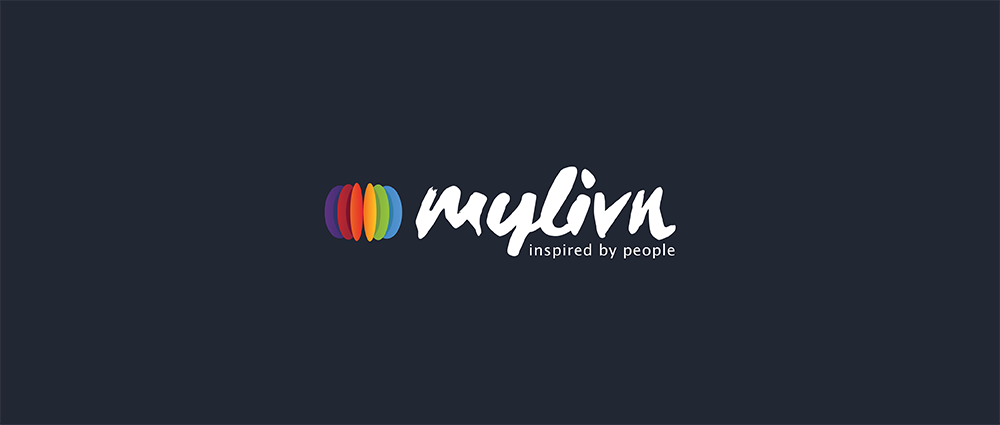
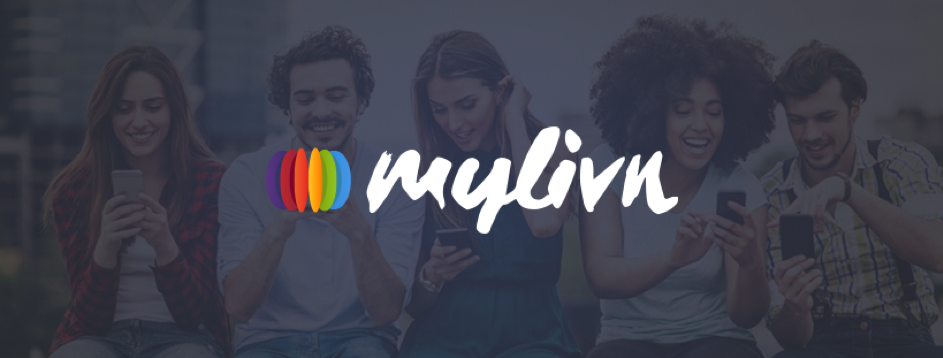
updated images and about company

diff --git a/README.md b/README.md
@@ -2,15 +2,17 @@
 ## Mylivn
 #### Inspired by People
 
-![](https://raw.githubusercontent.com/mylivn-gmbh/jobs/master/assets/cover1.png)
+![](cover1.png)
 
-A creative startup based in Munich, Germany working to transform social media and bring it to a new level. Mylivn is a social community that encourages you to share what excites you, helps you to market what you create and enables you to find new sources of inspiration. We’re a team of young and motivated professionals working to change the social media landscape. We all have different backgrounds and previous experiences, and this diversity is what makes our workplace special. We are proud to be working with such inspiring international teammates who are smart, fun, ambitious, and looking for the challenge to transform social media and take it into the future.
+We are a creative startup based in Munich, Germany working to transform social media and bring it to a new level. Mylivn is a social lifestyle community where brand builders, bloggers, content creators, influencers and adventurers strive to inspire change with their own channel.
 
-![](https://raw.githubusercontent.com/mylivn-gmbh/jobs/master/assets/app3.jpg)
+We’re a team of young and motivated professionals working to change the social media landscape. We all have different backgrounds and previous experiences, and this diversity is what makes our workplace special. We are proud to be working with such inspiring international teammates who are smart, fun, ambitious, and looking for the challenge to transform social media and take it into the future.
+
+![](cover2.png)
 
 ## The Mylivn Approach 
 
-We envision Mylivn to become the inspiration hub of the future. It’s your digital neighborhood of inspiring, creative and adventurous people. We are brand builders, stylebloggers, content creators, influencers and adventurers striving to inspire change. We collaborate with like-minded people who appreciate the same as we do across food, fashion, travel and more, to continually grow our community and to connect with people around the world.
+The Mylivn community is made up of creators, influencers, bloggers and adventurers who run their own channel of inspirations that are both intriguing and exciting. You can follow hundreds of channels to stay up to date with the most spectacular lifestyles or inspirations and follow their way of livn.
 
 ## Available positions 
 
@@ -25,7 +27,7 @@ We envision Mylivn to become the inspiration hub of the future. It’s your digi
 
 - Quality equipment
 - Competitive salary
-- Great Location and new office
+- Great location and new office
 - Family friendly company
-- Free fruits, snacks and drinks
+- Free snacks and drinks
 - New technologies

diff --git a/android-developer.md b/android-developer.md
@@ -1,11 +1,12 @@
 ## Who we are
 
-We are a young and creative start-up from Munich, currently working on an app that connects social media to what’s happening locally and globally.
+We are a creative startup based in Munich, Germany working to transform social media and bring it to a new level. 
 
 ## What we do
 
-Mylivn is a lifestyle platform that connects people around the world. Anyone, anywhere, is able to see current posts, stories, products to buy, related content and more, all readily available by current location or specific interests, allowing an insight into what’s going on around you.
+Mylivn is a social lifestyle community where brand builders, bloggers, content creators, influencers and adventurers strive to inspire change with their own channel.
 
+The Mylivn community is made up of creators, influencers, bloggers and adventurers who run their own channel of inspirations that are both intriguing and exciting. You can follow hundreds of channels to stay up to date with the most spectacular lifestyles or inspirations and follow their way of livn.
 
 Mylivn is seeking to hire excited and motivated team members that are willing to share their expertise and push their capabilities to the next level.
 

diff --git a/backend-developer.md b/backend-developer.md
@@ -1,11 +1,12 @@
 ## Who we are
 
-We are a young and creative start-up from Munich, currently working on an app that connects social media to what’s happening locally and globally.
+We are a creative startup based in Munich, Germany working to transform social media and bring it to a new level. 
 
 ## What we do
 
-Mylivn is a lifestyle platform that connects people around the world. Anyone, anywhere, is able to see current posts, stories, products to buy, related content and more, all readily available by current location or specific interests, allowing an insight into what’s going on around you.
+Mylivn is a social lifestyle community where brand builders, bloggers, content creators, influencers and adventurers strive to inspire change with their own channel.
 
+The Mylivn community is made up of creators, influencers, bloggers and adventurers who run their own channel of inspirations that are both intriguing and exciting. You can follow hundreds of channels to stay up to date with the most spectacular lifestyles or inspirations and follow their way of livn.
 
 Mylivn is seeking to hire excited and motivated team members that are willing to share their expertise and push their capabilities to the next level.
 

diff --git a/ios-developer.md b/ios-developer.md
@@ -1,11 +1,12 @@
 ## Who we are
 
-We are a young and creative start-up from Munich, currently working on an app that connects social media to what’s happening locally and globally.
+We are a creative startup based in Munich, Germany working to transform social media and bring it to a new level. 
 
 ## What we do
 
-Mylivn is a lifestyle platform that connects people around the world. Anyone, anywhere, is able to see current posts, stories, products to buy, related content and more, all readily available by current location or specific interests, allowing an insight into what’s going on around you.
+Mylivn is a social lifestyle community where brand builders, bloggers, content creators, influencers and adventurers strive to inspire change with their own channel.
 
+The Mylivn community is made up of creators, influencers, bloggers and adventurers who run their own channel of inspirations that are both intriguing and exciting. You can follow hundreds of channels to stay up to date with the most spectacular lifestyles or inspirations and follow their way of livn.
 
 Mylivn is seeking to hire excited and motivated team members that are willing to share their expertise and push their capabilities to the next level.
 

diff --git a/quality-assurance.md b/quality-assurance.md
@@ -1,11 +1,12 @@
 ## Who we are
 
-We are a young and creative start-up from Munich, currently working on an app that connects social media to what’s happening locally and globally.
+We are a creative startup based in Munich, Germany working to transform social media and bring it to a new level. 
 
 ## What we do
 
-Mylivn is a lifestyle platform that connects people around the world. Anyone, anywhere, is able to see current posts, stories, products to buy, related content and more, all readily available by current location or specific interests, allowing an insight into what’s going on around you.
+Mylivn is a social lifestyle community where brand builders, bloggers, content creators, influencers and adventurers strive to inspire change with their own channel.
 
+The Mylivn community is made up of creators, influencers, bloggers and adventurers who run their own channel of inspirations that are both intriguing and exciting. You can follow hundreds of channels to stay up to date with the most spectacular lifestyles or inspirations and follow their way of livn.
 
 Mylivn is seeking to hire excited and motivated team members that are willing to share their expertise and push their capabilities to the next level.
 

diff --git a/web-developer.md b/web-developer.md
@@ -1,11 +1,12 @@
 ## Who we are
 
-We are a young and creative start-up from Munich, currently working on an app that connects social media to what’s happening locally and globally.
+We are a creative startup based in Munich, Germany working to transform social media and bring it to a new level. 
 
 ## What we do
 
-Mylivn is a lifestyle platform that connects people around the world. Anyone, anywhere, is able to see current posts, stories, products to buy, related content and more, all readily available by current location or specific interests, allowing an insight into what’s going on around you.
+Mylivn is a social lifestyle community where brand builders, bloggers, content creators, influencers and adventurers strive to inspire change with their own channel.
 
+The Mylivn community is made up of creators, influencers, bloggers and adventurers who run their own channel of inspirations that are both intriguing and exciting. You can follow hundreds of channels to stay up to date with the most spectacular lifestyles or inspirations and follow their way of livn.
 
 Mylivn is seeking to hire excited and motivated team members that are willing to share their expertise and push their capabilities to the next level.
 
